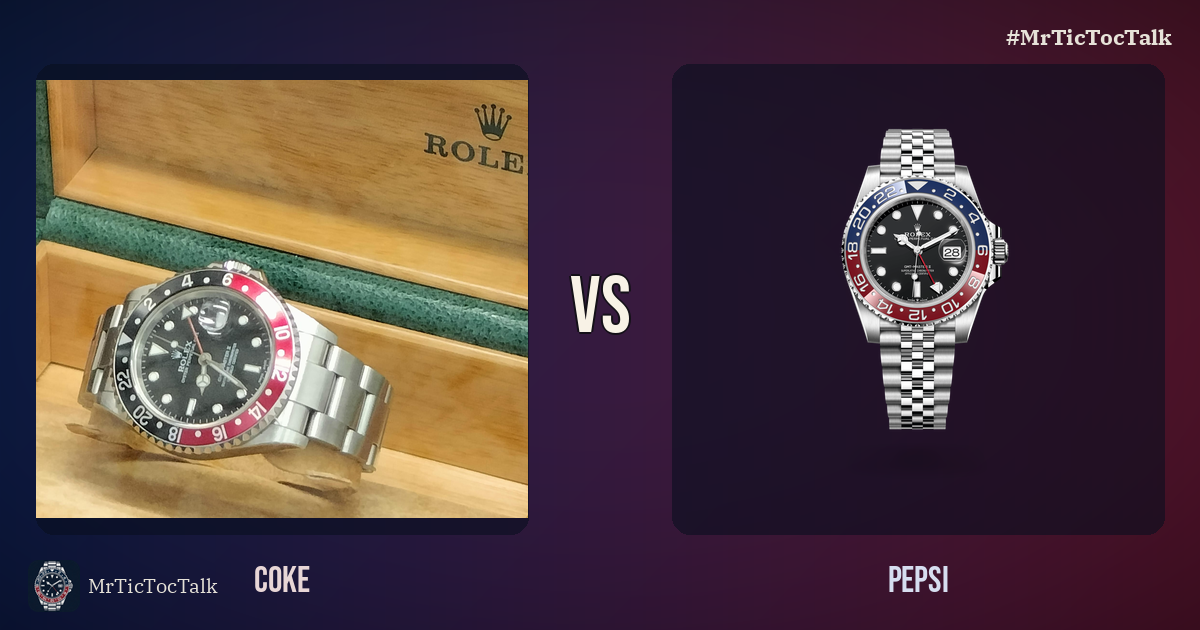
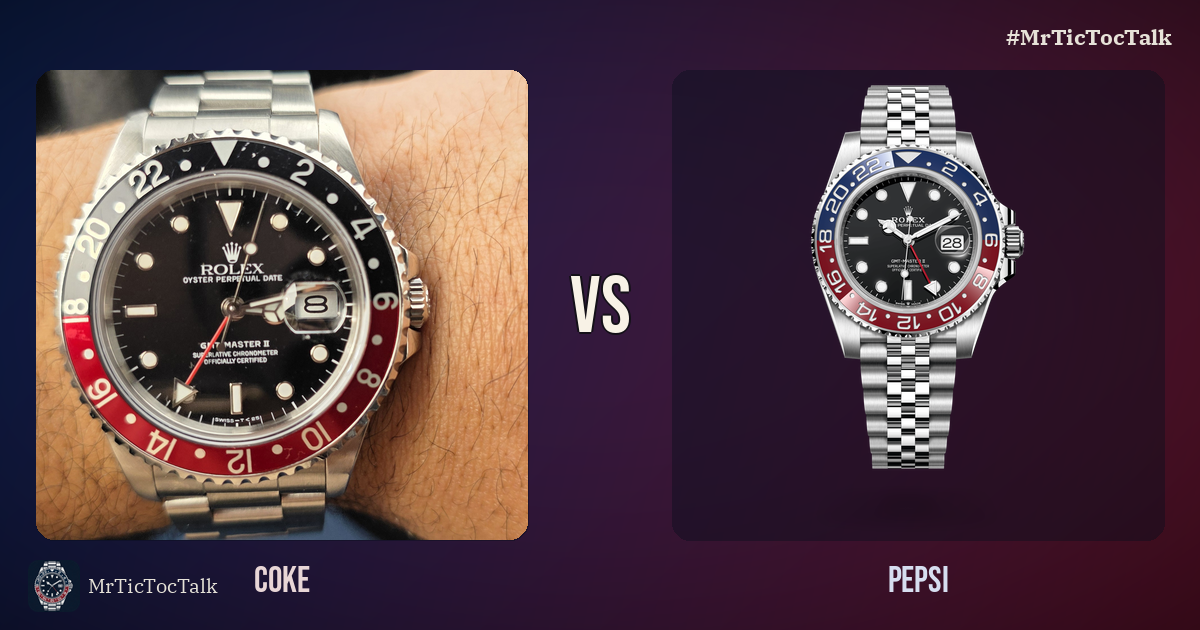
Replace the Coke side of the GMT hero with Will's own 1989 16710 photo and credit it as a MrTicTocTalk original.

diff --git a/assets/img/IMAGE-SOURCES.md b/assets/img/IMAGE-SOURCES.md
@@ -309,7 +309,7 @@ All product photos in this pass come from official brand sites, official press p
 
 ## Posts with photos
 
-- 2026-11-02-rolex-gmt-master-ii-16710-buyers-guide: coke-vs-pepsi-gmt. Composite of a real 16710 Coke (Wikimedia Commons, EMore98, CC BY-SA 4.0) beside an official Rolex Pepsi (m126710blro-0001). Credit: Rolex and EMore98, Wikimedia Commons.
+- 2026-11-02-rolex-gmt-master-ii-16710-buyers-guide: coke-vs-pepsi-gmt. Composite of Will's own 1989 16710 Coke (MrTicTocTalk original) beside an official Rolex Pepsi (m126710blro-0001). Credit: MrTicTocTalk and Rolex.
 - 2026-11-03-casio-cmk-100-omega-x-33-watch-news-roundup: casio-cmk-100. Official Casio press photo of the CMK-100, the lead watch in this news roundup.
 - 2026-11-03-rolex-service-prices-official-price-list: rolex-datejust. Official Rolex Datejust collection photo used as a representative Rolex image for a service price article.
 - 2026-11-03-timex-ironman-40th-glashutte-senator-aventurine-news: timex-ironman-40th. Official Timex product photo of the Ironman 40th Anniversary Edition, TW5M75900.
@@ -350,7 +350,7 @@ Some official photos are current collection or family shots used for related ref
 Photos are official brand or official press assets, credited on the page as Image: Brand. This is a local unpublished mockup. Publication, including a live push, should still be reviewed for each brand's press and image-use terms.
 Amazon Associates rules were followed: no Amazon product images were downloaded or rehosted. eBay and other merchant listing images were not used. Only official maker photos, with credit, appear next to search links.
 Rolex, Tudor, Seiko, Tissot, Timex, Casio, Citizen, Davosa, Farer, Oris, Orient, Barton Watch Bands, WatchGecko, and UNION are the credited sources in this pass.
-Rolex, Tudor, Seiko, Tissot, Timex, Casio, Citizen, Davosa, Farer, Oris, Orient, Barton Watch Bands, WatchGecko, UNION, Piaget, Serica, CWC, Klokers, Omega, GPHG, Horologically Unique, Ming, IWC, Albishorn, Luminox, and Vacheron Constantin are among the credited sources after the November 10, 2026 pass. The Speedmaster 145.022 guide uses a current official Moonwatch Professional photo (not a vintage 145.022). The Coke vs Pepsi hero mixes an official Rolex Pepsi with a CC BY-SA 4.0 Wikimedia photo of a real 16710 Coke.
+Rolex, Tudor, Seiko, Tissot, Timex, Casio, Citizen, Davosa, Farer, Oris, Orient, Barton Watch Bands, WatchGecko, UNION, Piaget, Serica, CWC, Klokers, Omega, GPHG, Horologically Unique, Ming, IWC, Albishorn, Luminox, and Vacheron Constantin are among the credited sources after the November 10, 2026 pass. The Speedmaster 145.022 guide uses a current official Moonwatch Professional photo (not a vintage 145.022). The Coke vs Pepsi hero mixes an official Rolex Pepsi with Will's own photo of his 1989 16710 Coke (MrTicTocTalk original).
 
 ## November 10, 2026 watch photo additions
 
@@ -456,10 +456,10 @@ All card heroes below were converted to 1200x750 webp (16:10, matching .card-med
 - Post: 2026-11-17-omega-speedmaster-145-022-buyers-guide
 
 ### coke-vs-pepsi-gmt
-- Credit: Rolex and EMore98, Wikimedia Commons
-- Kind: composite hero. Left: real Rolex GMT-Master II ref. 16710 Coke photographed in its box (Wikimedia Commons File:Rolex_GMT-Master_II_ref._16710_Coke.jpg, CC BY-SA 4.0, author EMore98, 16 May 2025). Right: official Rolex Pepsi m126710blro-0001 isolated via its true alpha onto a navy and wine gradient. Labels COKE and PEPSI, a bold VS, the MrTicTocTalk logo mark, the word MrTicTocTalk, and #MrTicTocTalk. Rolex does not publish a current steel Coke, so a credited real 16710 Coke photo was used instead of an official one. Will's own 1989 16710 Coke video (IMG_4821.mov) is a stylized illustrated reel, not a usable raw photo.
+- Credit: MrTicTocTalk and Rolex
+- Kind: composite hero. Left: Will's own photo of his 1989 Rolex GMT Master II ref. 16710 Coke, on the wrist, cropped to the watch head and bracelet (MrTicTocTalk original). Right: official Rolex Pepsi m126710blro-0001 isolated via its true alpha onto a navy and wine gradient. Labels COKE and PEPSI, a bold VS, the MrTicTocTalk logo mark, the word MrTicTocTalk, and #MrTicTocTalk. Rolex does not publish a current steel Coke, so Will's own 16710 Coke photo is used instead of an official one.
 - Source images:
-  - https://upload.wikimedia.org/wikipedia/commons/d/d8/Rolex_GMT-Master_II_ref._16710_Coke.jpg
+  - Will's own photo of his 1989 Rolex GMT Master II 16710 Coke (MrTicTocTalk original)
   - https://media.rolex.com/image/upload/q_auto:best/f_auto/t_v7/c_limit,w_1920/v1/catalogue/2026/upright-bba-with-shadow/m126710blro-0001
 - Assets: /assets/img/watches/coke-vs-pepsi-gmt.webp (1200x750 card hero) and /assets/img/watches/coke-vs-pepsi-gmt.png (1200x630 social)
 - Post: 2026-11-02-rolex-gmt-master-ii-16710-buyers-guide

diff --git a/_posts/2026-11-02-rolex-gmt-master-ii-16710-buyers-guide.md b/_posts/2026-11-02-rolex-gmt-master-ii-16710-buyers-guide.md
@@ -9,7 +9,7 @@ tags: [rolex, gmt-master, 16710, buying-guide]
 ig_caption: "The 16710 is the last aluminum bezel GMT, and my Coke GMT is still my favorite travel watch. Coke or Pepsi? Before you buy, check the text under 6, the lug holes, and the II on the dial. Full buyer's guide on the Journal, link in bio. #rolex #gmtmaster #16710 #cokegmt #vintagerolex #mrtictoctalk"
 image: "/assets/img/watches/coke-vs-pepsi-gmt.webp"
 image_alt: "A real Rolex GMT Master II Coke with a red and black bezel next to an official Rolex Pepsi with a red and blue bezel, with VS between them"
-image_credit: "Rolex and EMore98, Wikimedia Commons"
+image_credit: "MrTicTocTalk and Rolex"
 ---
 I'll admit my bias up front. My own GMT Master II is a 1989 Coke, and it is the watch I grab when I get on a plane. The 16710 has a 40mm steel case, an aluminum insert that will fade if you live in it, and a movement that does real GMT work. It is also one of the most faked and most "improved" references Rolex ever made, so it rewards a buyer who does homework.
 
